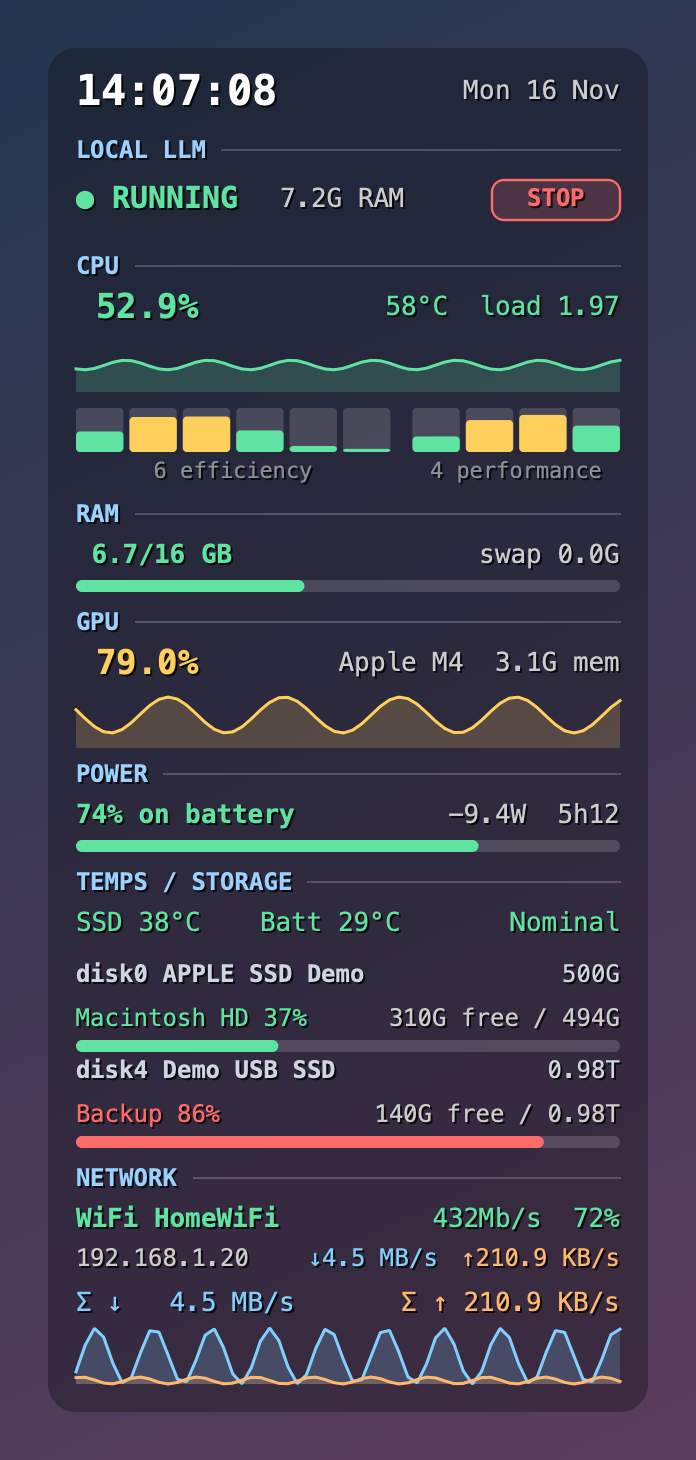
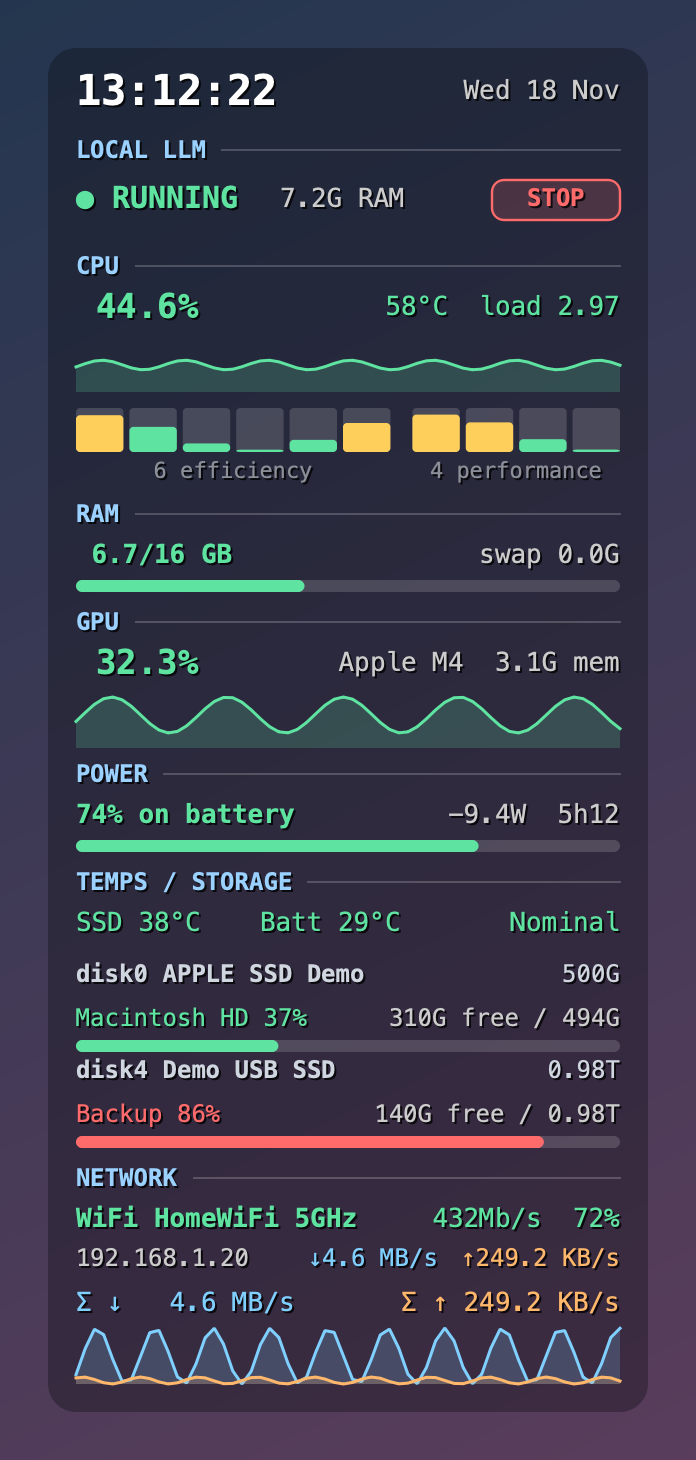
Show the Wi-Fi name and band (2.4/5/6 GHz) in the Network section
The name comes from a small Location-permitted helper app built by install.sh.

diff --git a/helper/wifi-ssid.swift b/helper/wifi-ssid.swift
@@ -1,0 +1,44 @@
+// Tiny background helper for Mac Sysmon. macOS only reveals the Wi-Fi name (SSID) to an app
+// that has Location Services permission, which a bare Python script cannot hold. This signed
+// app bundle holds it, and writes the current SSID to a small JSON file the monitor reads.
+// It does not read, store or send the location itself.
+import Cocoa
+import CoreLocation
+import CoreWLAN
+
+final class Helper: NSObject, CLLocationManagerDelegate {
+    let lm = CLLocationManager()
+    let outPath: String
+
+    init(outPath: String) {
+        self.outPath = outPath
+        super.init()
+        lm.delegate = self
+    }
+
+    func start() {
+        lm.requestWhenInUseAuthorization()
+        Timer.scheduledTimer(withTimeInterval: 3, repeats: true) { [weak self] _ in self?.write() }
+        write()
+    }
+
+    func locationManagerDidChangeAuthorization(_ manager: CLLocationManager) { write() }
+
+    func write() {
+        let ssid = CWWiFiClient.shared().interface()?.ssid() ?? ""
+        let doc: [String: Any] = ["ssid": ssid, "auth": Int(lm.authorizationStatus.rawValue),
+                                  "ts": Date().timeIntervalSince1970]
+        guard let data = try? JSONSerialization.data(withJSONObject: doc) else { return }
+        try? data.write(to: URL(fileURLWithPath: outPath), options: .atomic)
+    }
+}
+
+let out = CommandLine.arguments.count > 1 ? CommandLine.arguments[1]
+    : NSHomeDirectory() + "/Library/Application Support/mac-sysmon/ssid.json"
+try? FileManager.default.createDirectory(
+    atPath: (out as NSString).deletingLastPathComponent, withIntermediateDirectories: true)
+let app = NSApplication.shared
+app.setActivationPolicy(.accessory)
+let helper = Helper(outPath: out)
+helper.start()
+app.run()

diff --git a/sysmon.py b/sysmon.py
@@ -43,6 +43,9 @@ POSITION = os.environ.get("SYSMON_POSITION", "right")   # right | left | remembe
 EDGE = 10        # gap to the screen edge when docked
 DEMO = False     # --demo: fake data (for screenshots and tests)
 CONFIG = os.path.expanduser("~/Library/Application Support/mac-sysmon/config.json")
+SSID_FILE = os.path.expanduser("~/Library/Application Support/mac-sysmon/ssid.json")
+WIFI_HELPER = os.path.join(os.path.dirname(os.path.abspath(__file__)), ".build", "SysmonWiFi.app")
+BANDS = {1: "2.4GHz", 2: "5GHz", 3: "6GHz"}   # CWChannelBand
 
 LEVEL_BELOW, LEVEL_TOP = -1, 3   # NSWindow levels: just under normal windows / floating
 THERMAL = ("Nominal", "Fair", "Serious", "Critical")
@@ -285,6 +288,8 @@ class Monitor(QWidget):
         self._save_timer = QTimer(self)
         self._save_timer.setSingleShot(True)
         self._save_timer.timeout.connect(self.save_cfg)
+        if not self.demo:
+            self.start_wifi_helper()
         # a display was plugged/unplugged or changed resolution: re-dock (debounced)
         self._dock_timer = QTimer(self)
         self._dock_timer.setSingleShot(True)
@@ -300,6 +305,36 @@ class Monitor(QWidget):
         t.timeout.connect(self.sample)
         t.start(1000)
         self.sample()
+
+    # ---- Wi-Fi name ----
+    # macOS hides the SSID from processes without Location Services permission. A small
+    # signed helper app (helper/build.sh) holds that permission and writes the name to a file.
+    def start_wifi_helper(self):
+        if QGuiApplication.platformName() != "cocoa" or not os.path.isdir(WIFI_HELPER):
+            return
+        if not any(p.info["name"] == "SysmonWiFi" for p in psutil.process_iter(["name"])):
+            subprocess.Popen(["open", "-g", "-j", "-a", WIFI_HELPER],
+                             stdout=subprocess.DEVNULL, stderr=subprocess.DEVNULL)
+        QApplication.instance().aboutToQuit.connect(self.stop_wifi_helper)
+
+    @staticmethod
+    def stop_wifi_helper():
+        for p in psutil.process_iter(["name"]):
+            if p.info["name"] == "SysmonWiFi":
+                try:
+                    p.terminate()
+                except psutil.Error:
+                    pass
+
+    @staticmethod
+    def helper_ssid():
+        try:
+            d = json.load(open(SSID_FILE))
+            if time.time() - float(d.get("ts", 0)) < 20 and d.get("ssid"):
+                return str(d["ssid"])
+        except (OSError, ValueError):
+            pass
+        return None
 
     # ---- window placement (macOS) ----
     def nswindow(self):
@@ -454,7 +489,7 @@ class Monitor(QWidget):
                  batt={"pct": 74, "charging": False, "plugged": False, "watts": -9.4,
                        "mins": 312, "cycles": 38},
                  ssd_t=38, batt_t=29, thermal=0,
-                 wifi={"ssid": "HomeWiFi", "sig": 72, "rate": 432, "ip": "192.168.1.20"},
+                 wifi={"ssid": "HomeWiFi", "band": "5GHz", "sig": 72, "rate": 432, "ip": "192.168.1.20"},
                  down=2.4e6 * (1 + math.sin(t)), up=3e5 * (1 + math.cos(t)))
         self.wifi_if = self.wifi_if or "en0"
         self.rates = {self.wifi_if: (s["down"], s["up"])}
@@ -500,8 +535,10 @@ class Monitor(QWidget):
             ip = self.ipv4(self.wifi_if)
             if not rssi or not ip:
                 return
-            ssid = w.ssid()   # None unless the app has Location Services permission
-            self.s["wifi"] = {"ssid": str(ssid) if ssid else None,
+            ssid = w.ssid() or self.helper_ssid()   # own read needs Location Services permission
+            ch = w.wlanChannel()
+            band = BANDS.get(int(ch.channelBand())) if ch else None
+            self.s["wifi"] = {"ssid": str(ssid) if ssid else None, "band": band,
                               "sig": float(min(max(2 * (rssi + 100), 0), 100)),
                               "rate": float(w.transmitRate() or 0), "ip": ip}
         except Exception:
@@ -779,8 +816,8 @@ class Monitor(QWidget):
         wf = s.get("wifi")
         if wf:
             wc = self.color(100 - wf["sig"])
-            name = wf["ssid"][:16] if wf["ssid"] else (self.wifi_if or "")
-            self.text(p, 14, y, f"WiFi {name}", wc, bold=True)
+            name = wf["ssid"][:12] if wf["ssid"] else (self.wifi_if or "")
+            self.text(p, 14, y, f"WiFi {name} {wf.get('band') or ''}".rstrip(), wc, bold=True)
             rate = f"{wf['rate']:.0f}Mb/s  " if wf["rate"] else ""
             self.rtext(p, y, f"{rate}{wf['sig']:.0f}%", wc)
             y += 20

diff --git a/README.md b/README.md
@@ -17,7 +17,7 @@ A lightweight, **transparent desktop system-monitor overlay for macOS** (Apple S
 | **GPU** | usage + graph, memory in use (unified memory, so shared with RAM) |
 | **Power** *(laptops)* | battery %, charging state, watts in/out, time remaining |
 | **Temps / Storage** | SSD and battery temperature, macOS thermal state; every physical disk with capacity and, per volume, % used, free and total. External drives appear automatically; mounted disk images are ignored |
-| **Network** | Wi-Fi signal % and link rate, IP and rates per active interface, wired Ethernet when connected, combined download/upload with graph |
+| **Network** | Wi-Fi name, band (2.4 / 5 / 6 GHz), signal % and link rate, IP and rates per active interface, wired Ethernet when connected, combined download/upload with graph |
 
 Bars and numbers turn **yellow above 60 % and red above 85 %** (temperatures: yellow above 60 °C, red above 80 °C).
 
@@ -72,11 +72,11 @@ Example, an on/off button for a local LLM served by Ollama:
 | Battery | `ioreg -n AppleSmartBattery` |
 | Thermal state | `NSProcessInfo.thermalState` |
 | Disks | `diskutil info -plist` + `statvfs` (the Data volume is measured for "Macintosh HD") |
-| Wi-Fi | CoreWLAN |
+| Wi-Fi | CoreWLAN (band, signal, rate); the name comes from a small helper app, see below |
 
 ## Known limitations
 
-- **Wi-Fi name is hidden.** macOS only reveals the SSID to apps with Location Services permission, so the interface name (`en0`) is shown instead. Signal and link rate work.
+- **Wi-Fi name needs Location permission.** macOS only reveals the network name to apps with Location Services access, which a plain Python script cannot hold. `./install.sh` builds a tiny helper app (`helper/wifi-ssid.swift`, needs the Xcode command line tools) that holds that permission and passes the name to the monitor through a file. The first launch shows a one-time macOS Location prompt for "Mac Sysmon Wi-Fi"; the helper never reads or stores your location. Without the helper, or if you decline, the interface name (`en0`) is shown instead. Band, signal and link rate work either way.
 - Tested on one machine: MacBook Air M4, macOS 27. Intel Macs have no IOHID temperature sensors or E/P split; those parts show `-` or are simplified.
 - No fan speed or per-rail power (needs SMC access / `powermetrics` with sudo).
 - Settings live in `~/Library/Application Support/mac-sysmon/config.json`.
